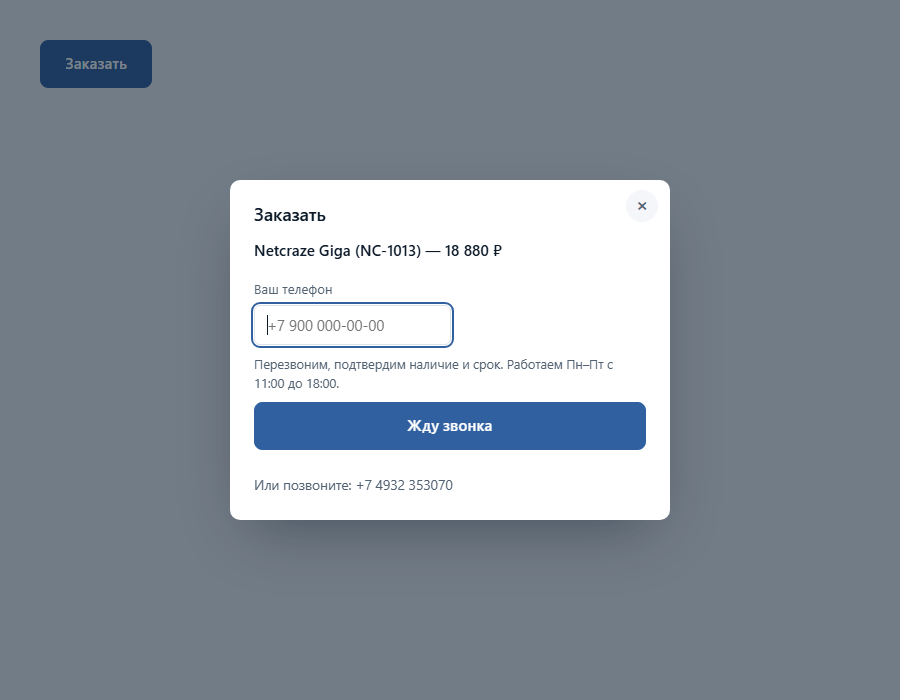
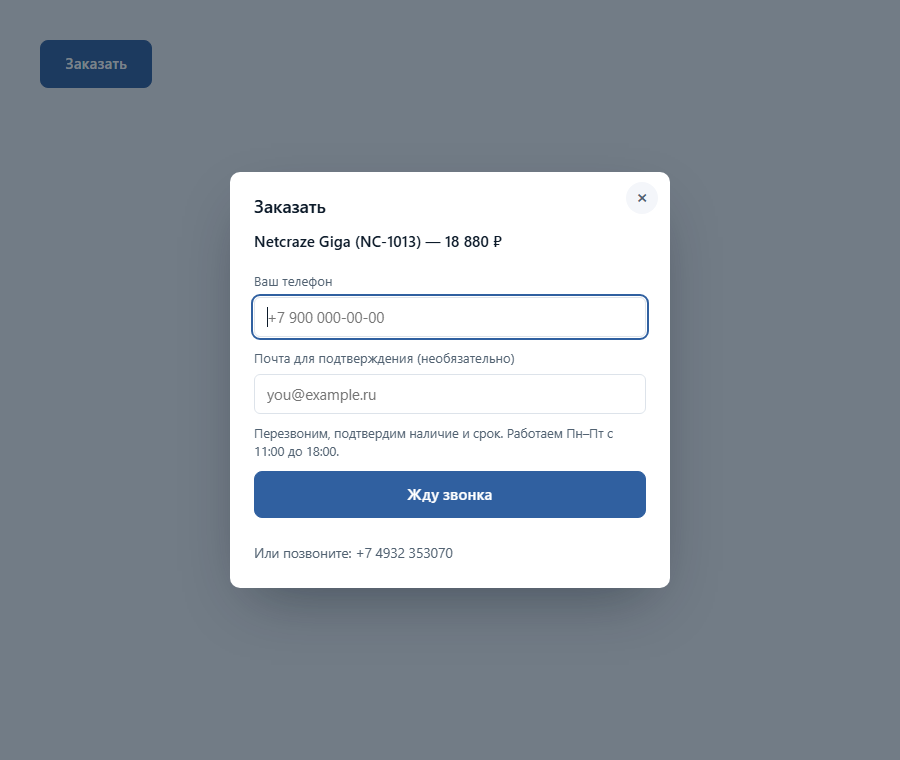
Заказ: необязательная почта, письмо-подтверждение заказчику, почта и товар видны в панели

Changed region(s): [[0.2489, 0.21, 0.7467, 0.78], [0.0311, 0.03, 0.1556, 0.15], [0.7156, 0.39, 0.7467, 0.42]]

diff --git a/assets/order.js b/assets/order.js
@@ -78,6 +78,21 @@
     phoneLabel.appendChild(phoneInput);
     form.appendChild(phoneLabel);
 
+    var emailLabel = document.createElement("label");
+    emailLabel.className = "order-form__label";
+    var emailText = document.createElement("span");
+    emailText.textContent = "Почта для подтверждения (необязательно)";
+    emailLabel.appendChild(emailText);
+
+    var emailInput = document.createElement("input");
+    emailInput.type = "email";
+    emailInput.name = "email";
+    emailInput.className = "hours-form__input";
+    emailInput.placeholder = "you@example.ru";
+    emailInput.autocomplete = "email";
+    emailLabel.appendChild(emailInput);
+    form.appendChild(emailLabel);
+
     var hint = document.createElement("p");
     hint.className = "order-form__hint";
     hint.textContent = "Перезвоним, подтвердим наличие и срок. Работаем Пн–Пт с 11:00 до 18:00.";
@@ -115,6 +130,7 @@
         headers: { "Content-Type": "application/json" },
         body: JSON.stringify({
           phone: phone,
+          email: emailInput.value.trim(),
           note: productName ? "Заказ: " + productName : "Заказ с сайта",
           hp: hp.value
         })
@@ -122,8 +138,11 @@
         .then(function (response) { return response.json(); })
         .then(function (result) {
           if (result.error) throw new Error(result.error);
+          var hadEmail = emailInput.value.trim() !== "";
           form.reset();
-          status.textContent = "Заявка принята. Перезвоним в рабочее время.";
+          status.textContent = hadEmail
+            ? "Заявка принята. Перезвоним в рабочее время, подтверждение отправили на почту."
+            : "Заявка принята. Перезвоним в рабочее время.";
           status.classList.add("order-form__status--ok");
           submit.disabled = true;
         })

diff --git a/index.html b/index.html
@@ -29,7 +29,7 @@
   <link rel="preload" href="assets/fonts/rubik-wm-cyrillic.woff2" as="font" type="font/woff2" crossorigin>
   <link rel="preload" href="assets/fonts/inter-cyrillic.woff2" as="font" type="font/woff2" crossorigin>
   <link rel="preload" href="assets/fonts/inter-tight-cyrillic.woff2" as="font" type="font/woff2" crossorigin>
-  <link rel="stylesheet" href="assets/style.css?v=20261178">
+  <link rel="stylesheet" href="assets/style.css?v=20261180">
 
   <script type="application/ld+json">
   {
@@ -81,7 +81,7 @@
   <header class="site-header">
     <div class="container header-inner">
       <a class="brand" href="#top" aria-label="Интер-Техника-Плюс — на главную">
-        <img class="brand-logo" src="assets/logo.png?v=20261178" alt="Интер-Техника-Плюс" width="112" height="44">
+        <img class="brand-logo" src="assets/logo.png?v=20261180" alt="Интер-Техника-Плюс" width="112" height="44">
         <span class="brand-name">Интер-Техника<span class="brand-plus">+</span></span>
       </a>
 
@@ -426,8 +426,8 @@
     <a class="btn btn--ghost" href="https://yandex.ru/maps/org/1043257440/" target="_blank" rel="noopener">Написать</a>
   </div>
 
-  <script src="assets/app.js?v=20261178" defer></script>
-<script src="assets/hours.js?v=20261178" defer></script>
-  <script src="assets/map.js?v=20261178" defer></script>
+  <script src="assets/app.js?v=20261180" defer></script>
+<script src="assets/hours.js?v=20261180" defer></script>
+  <script src="assets/map.js?v=20261180" defer></script>
 </body>
 </html>

diff --git a/new.html b/new.html
@@ -21,13 +21,13 @@
   <link rel="icon" href="assets/favicon-32.png" type="image/png" sizes="32x32">
   <link rel="icon" href="assets/favicon-192.png" type="image/png" sizes="192x192">
   <link rel="apple-touch-icon" href="assets/apple-touch-icon.png" sizes="180x180">
-  <link rel="stylesheet" href="assets/style.css?v=20261178">
+  <link rel="stylesheet" href="assets/style.css?v=20261180">
 </head>
 <body>
   <header class="site-header">
     <div class="container header-inner">
       <a class="brand" href="index.html" aria-label="Интер-Техника-Плюс — на главную">
-        <img class="brand-logo" src="assets/logo.png?v=20261178" alt="Интер-Техника-Плюс" width="112" height="44">
+        <img class="brand-logo" src="assets/logo.png?v=20261180" alt="Интер-Техника-Плюс" width="112" height="44">
         <span class="brand-name">Интер-Техника<span class="brand-plus">+</span></span>
       </a>
       <button class="nav-toggle" type="button" aria-expanded="false" aria-controls="nav">
@@ -130,9 +130,9 @@
   </div>
 </footer>
 
-  <script src="assets/app.js?v=20261178" defer></script>
-<script src="assets/hours.js?v=20261178" defer></script>
-  <script src="assets/catalog.js?v=20261178" defer></script>
-<script src="assets/order.js?v=20261178" defer></script>
+  <script src="assets/app.js?v=20261180" defer></script>
+<script src="assets/hours.js?v=20261180" defer></script>
+  <script src="assets/catalog.js?v=20261180" defer></script>
+<script src="assets/order.js?v=20261180" defer></script>
 </body>
 </html>

diff --git a/used.html b/used.html
@@ -21,13 +21,13 @@
   <link rel="icon" href="assets/favicon-32.png" type="image/png" sizes="32x32">
   <link rel="icon" href="assets/favicon-192.png" type="image/png" sizes="192x192">
   <link rel="apple-touch-icon" href="assets/apple-touch-icon.png" sizes="180x180">
-  <link rel="stylesheet" href="assets/style.css?v=20261178">
+  <link rel="stylesheet" href="assets/style.css?v=20261180">
 </head>
 <body>
   <header class="site-header">
     <div class="container header-inner">
       <a class="brand" href="index.html" aria-label="Интер-Техника-Плюс — на главную">
-        <img class="brand-logo" src="assets/logo.png?v=20261178" alt="Интер-Техника-Плюс" width="112" height="44">
+        <img class="brand-logo" src="assets/logo.png?v=20261180" alt="Интер-Техника-Плюс" width="112" height="44">
         <span class="brand-name">Интер-Техника<span class="brand-plus">+</span></span>
       </a>
       <button class="nav-toggle" type="button" aria-expanded="false" aria-controls="nav">
@@ -130,9 +130,9 @@
   </div>
 </footer>
 
-  <script src="assets/app.js?v=20261178" defer></script>
-<script src="assets/hours.js?v=20261178" defer></script>
-  <script src="assets/catalog.js?v=20261178" defer></script>
-<script src="assets/order.js?v=20261178" defer></script>
+  <script src="assets/app.js?v=20261180" defer></script>
+<script src="assets/hours.js?v=20261180" defer></script>
+  <script src="assets/catalog.js?v=20261180" defer></script>
+<script src="assets/order.js?v=20261180" defer></script>
 </body>
 </html>

diff --git a/requisites.html b/requisites.html
@@ -10,13 +10,13 @@
   <link rel="icon" href="assets/favicon-32.png" type="image/png" sizes="32x32">
   <link rel="icon" href="assets/favicon-192.png" type="image/png" sizes="192x192">
   <link rel="apple-touch-icon" href="assets/apple-touch-icon.png" sizes="180x180">
-  <link rel="stylesheet" href="assets/style.css?v=20261178">
+  <link rel="stylesheet" href="assets/style.css?v=20261180">
 </head>
 <body>
   <header class="site-header">
     <div class="container header-inner">
       <a class="brand" href="index.html" aria-label="Интер-Техника-Плюс — на главную">
-        <img class="brand-logo" src="assets/logo.png?v=20261178" alt="Интер-Техника-Плюс" width="112" height="44">
+        <img class="brand-logo" src="assets/logo.png?v=20261180" alt="Интер-Техника-Плюс" width="112" height="44">
         <span class="brand-name">Интер-Техника<span class="brand-plus">+</span></span>
       </a>
       <button class="nav-toggle" type="button" aria-expanded="false" aria-controls="nav">
@@ -160,7 +160,7 @@
   </div>
 </footer>
 
-  <script src="assets/app.js?v=20261178" defer></script>
-<script src="assets/hours.js?v=20261178" defer></script>
+  <script src="assets/app.js?v=20261180" defer></script>
+<script src="assets/hours.js?v=20261180" defer></script>
 </body>
 </html>

diff --git a/404.html b/404.html
@@ -9,13 +9,13 @@
   <link rel="icon" href="assets/favicon-32.png" type="image/png" sizes="32x32">
   <link rel="icon" href="assets/favicon-192.png" type="image/png" sizes="192x192">
   <link rel="apple-touch-icon" href="assets/apple-touch-icon.png" sizes="180x180">
-  <link rel="stylesheet" href="assets/style.css?v=20261178">
+  <link rel="stylesheet" href="assets/style.css?v=20261180">
 </head>
 <body>
   <header class="site-header">
     <div class="container header-inner">
       <a class="brand" href="index.html" aria-label="Интер-Техника-Плюс — на главную">
-        <img class="brand-logo" src="assets/logo.png?v=20261178" alt="Интер-Техника-Плюс" width="112" height="44">
+        <img class="brand-logo" src="assets/logo.png?v=20261180" alt="Интер-Техника-Плюс" width="112" height="44">
         <span class="brand-name">Интер-Техника<span class="brand-plus">+</span></span>
       </a>
       <nav class="nav" aria-label="Основная навигация">
@@ -73,7 +73,7 @@
   </div>
 </footer>
 
-  <script src="assets/app.js?v=20261178" defer></script>
-<script src="assets/hours.js?v=20261178" defer></script>
+  <script src="assets/app.js?v=20261180" defer></script>
+<script src="assets/hours.js?v=20261180" defer></script>
 </body>
 </html>

diff --git a/privacy.html b/privacy.html
@@ -13,13 +13,13 @@
   <link rel="canonical" href="https://ivu.ru/privacy.html">
 <link rel="icon" href="assets/favicon-192.png" type="image/png" sizes="192x192">
   <link rel="apple-touch-icon" href="assets/apple-touch-icon.png" sizes="180x180">
-  <link rel="stylesheet" href="assets/style.css?v=20261178">
+  <link rel="stylesheet" href="assets/style.css?v=20261180">
 </head>
 <body>
   <header class="site-header">
     <div class="container header-inner">
       <a class="brand" href="index.html" aria-label="Интер-Техника-Плюс — на главную">
-        <img class="brand-logo" src="assets/logo.png?v=20261178" alt="Интер-Техника-Плюс" width="112" height="44">
+        <img class="brand-logo" src="assets/logo.png?v=20261180" alt="Интер-Техника-Плюс" width="112" height="44">
         <span class="brand-name">Интер-Техника<span class="brand-plus">+</span></span>
       </a>
       <button class="nav-toggle" type="button" aria-expanded="false" aria-controls="nav">
@@ -145,7 +145,7 @@
   </div>
 </footer>
 
-  <script src="assets/app.js?v=20261178" defer></script>
-<script src="assets/hours.js?v=20261178" defer></script>
+  <script src="assets/app.js?v=20261180" defer></script>
+<script src="assets/hours.js?v=20261180" defer></script>
 </body>
 </html>

diff --git a/assets/style.css b/assets/style.css
@@ -1997,3 +1997,9 @@ body > main { flex: 1 0 auto; }
 .order-form__status--ok { color: #1c6b3a; }
 .order-form__status--err { color: var(--red-text); }
 .order-modal__alt { margin: 14px 0 0; font-size: .85rem; }
+/* поля в окне заказа — на всю ширину, как у телефона */
+.order-form .hours-form__input {
+  width: 100%;
+  flex: none;
+  display: block;
+}

diff --git a/callback-api.php b/callback-api.php
@@ -53,6 +53,10 @@ if (!empty($data['hp'])) {
 
 $phone = cleanText((string) ($data['phone'] ?? ''), 40);
 $note = cleanText((string) ($data['note'] ?? ''), 140);
+$email = mb_strtolower(cleanText((string) ($data['email'] ?? ''), 120));
+if ($email !== '' && !filter_var($email, FILTER_VALIDATE_EMAIL)) {
+    $email = '';
+}
 $name = cleanText((string) ($data['name'] ?? ''), 60);
 
 $digits = preg_replace('/\D+/', '', $phone) ?? '';
@@ -70,6 +74,7 @@ try {
         phone TEXT NOT NULL,
         name TEXT DEFAULT "",
         note TEXT DEFAULT "",
+        email TEXT DEFAULT "",
         created TEXT NOT NULL,
         processed INTEGER NOT NULL DEFAULT 0,
         ip_hash TEXT DEFAULT ""
@@ -87,6 +92,17 @@ try {
         $pdo->exec('ALTER TABLE callbacks ADD COLUMN note TEXT DEFAULT ""');
     }
 
+    // почта заказчика — появилась позже, добавляем на старых базах
+    $hasEmail = false;
+    foreach ($columns as $column) {
+        if ($column['name'] === 'email') {
+            $hasEmail = true;
+        }
+    }
+    if (!$hasEmail) {
+        $pdo->exec('ALTER TABLE callbacks ADD COLUMN email TEXT DEFAULT ""');
+    }
+
     $ipHash = hash('sha256', ($_SERVER['REMOTE_ADDR'] ?? '') . 'ivu-callback');
 
     $rate = $pdo->prepare('SELECT COUNT(*) FROM callbacks WHERE ip_hash = :ip AND created > :since');
@@ -95,12 +111,13 @@ try {
         out(['error' => 'Слишком много заявок подряд. Попробуйте через час.'], 429);
     }
 
-    $stmt = $pdo->prepare('INSERT INTO callbacks (phone, name, note, created, ip_hash)
-        VALUES (:phone, :name, :note, :created, :ip)');
+    $stmt = $pdo->prepare('INSERT INTO callbacks (phone, name, note, email, created, ip_hash)
+        VALUES (:phone, :name, :note, :email, :created, :ip)');
     $stmt->execute([
         ':phone' => $phone,
         ':name' => $name,
         ':note' => $note,
+        ':email' => $email,
         ':created' => date('c'),
         ':ip' => $ipHash,
     ]);
@@ -118,5 +135,27 @@ $body = 'Номер: ' . $phone . "\n"
     . "Список заявок: https://ivu.ru/admin/\n";
 
 ivuMail($notifyTo, $subject, $body);
+
+// подтверждение заказчику — если оставил почту
+if ($email !== '') {
+    $confirmSubject = 'Заявка принята — Интер-Техника-Плюс';
+    $confirmBody = "Здравствуйте!
+
+"
+        . "Мы получили вашу заявку на сайте ivu.ru.
+
+"
+        . ($note !== '' ? 'Что: ' . $note . "\n" : '')
+        . 'Телефон: ' . $phone . "\n
+"
+        . "Перезвоним в рабочее время: Пн–Пт с 11:00 до 18:00.
+"
+        . "Если вопрос срочный — позвоните сами: +7 4932 353070.
+
+"
+        . "ООО «Интер-Техника-Плюс», Иваново, ул. Степанова, 24
+";
+    ivuMail($email, $confirmSubject, $confirmBody);
+}
 
 out(['ok' => true]);

diff --git a/tovar.php b/tovar.php
@@ -108,7 +108,7 @@ $ogImage = $photos ? 'https://ivu.ru' . $uploadUrl . $photos[0] : 'https://ivu.r
 <link rel="icon" href="/assets/favicon.ico" sizes="any">
 <link rel="icon" href="/assets/favicon-32.png" type="image/png" sizes="32x32">
 <link rel="apple-touch-icon" href="/assets/apple-touch-icon.png" sizes="180x180">
-<link rel="stylesheet" href="/assets/style.css?v=20261178">
+<link rel="stylesheet" href="/assets/style.css?v=20261180">
 <?php if (!$notFound): ?>
 <script type="application/ld+json">
 {
@@ -132,7 +132,7 @@ $ogImage = $photos ? 'https://ivu.ru' . $uploadUrl . $photos[0] : 'https://ivu.r
 <header class="site-header">
   <div class="container header-inner">
     <a class="brand" href="/index.html" aria-label="Интер-Техника-Плюс — на главную">
-      <img class="brand-logo" src="/assets/logo.png?v=20261178" alt="Интер-Техника-Плюс" width="112" height="44">
+      <img class="brand-logo" src="/assets/logo.png?v=20261180" alt="Интер-Техника-Плюс" width="112" height="44">
       <span class="brand-name">Интер-Техника<span class="brand-plus">+</span></span>
     </a>
     <button class="nav-toggle" type="button" aria-expanded="false" aria-controls="nav">
@@ -354,9 +354,9 @@ $ogImage = $photos ? 'https://ivu.ru' . $uploadUrl . $photos[0] : 'https://ivu.r
     </div>
   </div>
 </footer>
-<script src="/assets/app.js?v=20261178" defer></script>
-<script src="/assets/hours.js?v=20261178" defer></script>
-<script src="/assets/order.js?v=20261178" defer></script>
+<script src="/assets/app.js?v=20261180" defer></script>
+<script src="/assets/hours.js?v=20261180" defer></script>
+<script src="/assets/order.js?v=20261180" defer></script>
 <script>
 document.addEventListener("DOMContentLoaded", function () {
   var button = document.getElementById("order-button");

diff --git a/blog.php b/blog.php
@@ -185,7 +185,7 @@ $ogImage = $post !== null && (string) $post['cover'] !== ''
 <link rel="icon" href="/assets/favicon.ico" sizes="any">
 <link rel="icon" href="/assets/favicon-32.png" type="image/png" sizes="32x32">
 <link rel="apple-touch-icon" href="/assets/apple-touch-icon.png" sizes="180x180">
-<link rel="stylesheet" href="/assets/style.css?v=20261178">
+<link rel="stylesheet" href="/assets/style.css?v=20261180">
 <?php if ($post !== null): ?>
 <script type="application/ld+json">
 {
@@ -217,7 +217,7 @@ $ogImage = $post !== null && (string) $post['cover'] !== ''
 <header class="site-header">
   <div class="container header-inner">
     <a class="brand" href="/index.html" aria-label="Интер-Техника-Плюс — на главную">
-      <img class="brand-logo" src="/assets/logo.png?v=20261178" alt="Интер-Техника-Плюс" width="112" height="44">
+      <img class="brand-logo" src="/assets/logo.png?v=20261180" alt="Интер-Техника-Плюс" width="112" height="44">
       <span class="brand-name">Интер-Техника<span class="brand-plus">+</span></span>
     </a>
     <button class="nav-toggle" type="button" aria-expanded="false" aria-controls="nav">
@@ -410,7 +410,7 @@ $ogImage = $post !== null && (string) $post['cover'] !== ''
     </div>
   </div>
 </footer>
-<script src="/assets/app.js?v=20261178" defer></script>
-<script src="/assets/hours.js?v=20261178" defer></script>
+<script src="/assets/app.js?v=20261180" defer></script>
+<script src="/assets/hours.js?v=20261180" defer></script>
 </body>
 </html>

diff --git a/admin/index.php b/admin/index.php
@@ -916,6 +916,8 @@ $pages = max(1, (int) ceil($total / $perPage));
           <td>
             <strong><a href="tel:<?= e(preg_replace('/[^\d+]/', '', (string) $cb['phone']) ?? '') ?>"><?= e($cb['phone']) ?></a></strong>
             <?php if ((string) $cb['name'] !== ''): ?><div class="small"><?= e($cb['name']) ?></div><?php endif; ?>
+            <?php if ((string) ($cb['email'] ?? '') !== ''): ?><div class="small">Почта: <?= e($cb['email']) ?></div><?php endif; ?>
+            <?php if ((string) ($cb['note'] ?? '') !== ''): ?><div class="small">Что: <?= e($cb['note']) ?></div><?php endif; ?>
           </td>
           <td class="small"><?= e(date('d.m.Y H:i', strtotime((string) $cb['created']))) ?></td>
           <td class="small"><?= (int) $cb['processed'] === 1 ? 'обработана' : '<strong>ждёт</strong>' ?></td>
